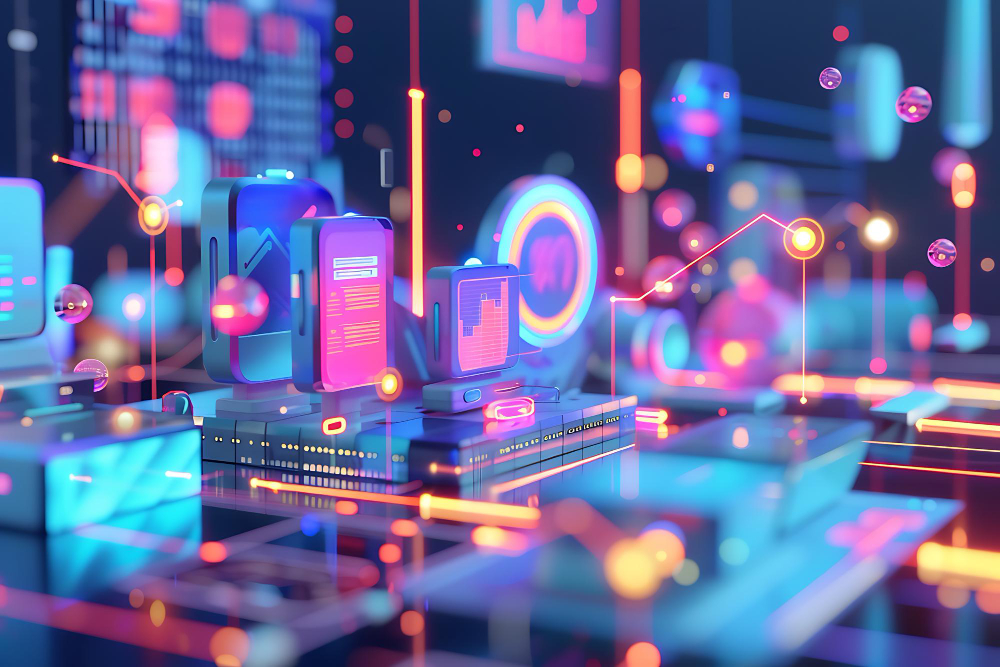
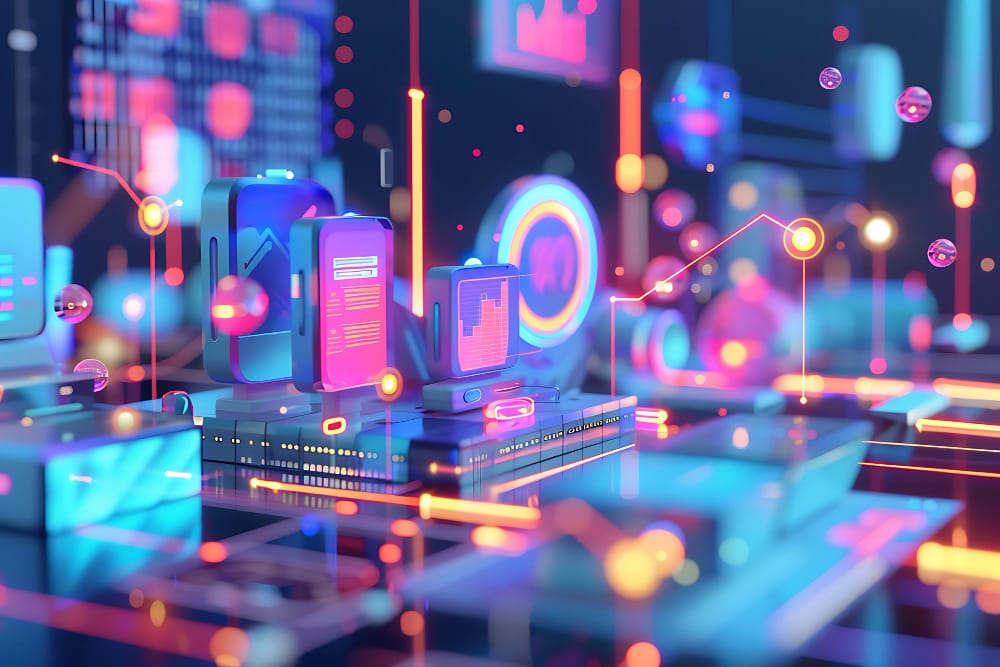
/services: optimise + wire remaining 7 service card images
All seven uploaded images now bound to their matching service entries
and compressed in place with sharp (max 1600 width, mozjpeg quality
80, progressive). Combined source weight 6.8 MB -> 495 KB before
Next.js image delivery pipeline kicks in.

Per-file results:
- ai-ml-services.jpg              1302 KB ->   61 KB (-95%, was 19 MP)
- cloud-modernization-services    3805 KB ->  127 KB (-97%, was 11 MP)
- data-engineering.jpg             443 KB ->   85 KB (-81%)
- digital-transformation.jpg       439 KB ->   84 KB (-81%)
- cyber-security.jpg               348 KB ->   44 KB (-87%)
- martech-cdp.jpg                  277 KB ->   60 KB (-79%)
- QA-testing.jpg                   248 KB ->   34 KB (-86%)

Filename to service-id mapping kept the uploaded names intact:
  ai-ml-services.jpg                -> applied-ai-ml
  cloud-modernization-services.jpg  -> cloud-modernization
  QA-testing.jpg                    -> qa-testing
  data-engineering / martech-cdp / digital-transformation /
  cyber-security / app-development  -> matching ids one-to-one

diff --git a/aci-infotech/src/app/services/page.tsx b/aci-infotech/src/app/services/page.tsx
@@ -39,6 +39,7 @@ const services = [
     capabilities: ['Lakehouse Architecture', 'Real-Time Pipelines', 'Data Quality & Governance', 'Migration & Modernization'],
     technologies: ['Databricks', 'Snowflake', 'dbt', 'Kafka', 'Spark'],
     href: '/services/data-engineering',
+    image: '/images/data-engineering.jpg',
   },
   {
     id: 'applied-ai-ml',
@@ -49,6 +50,7 @@ const services = [
     capabilities: ['MLOps & Model Deployment', 'Predictive Analytics', 'GenAI & LLM Integration', 'AI Governance (ArqAI)'],
     technologies: ['Python', 'MLflow', 'TensorFlow', 'LangChain', 'Azure ML'],
     href: '/services/applied-ai-ml',
+    image: '/images/ai-ml-services.jpg',
   },
   {
     id: 'cloud-modernization',
@@ -59,6 +61,7 @@ const services = [
     capabilities: ['Cloud Migration', 'Kubernetes & Containers', 'Infrastructure as Code', 'Cost Optimization'],
     technologies: ['AWS', 'Azure', 'GCP', 'Terraform', 'Kubernetes'],
     href: '/services/cloud-modernization',
+    image: '/images/cloud-modernization-services.jpg',
   },
   {
     id: 'martech-cdp',
@@ -69,6 +72,7 @@ const services = [
     capabilities: ['Customer Data Platforms', 'Marketing Automation', 'Real-Time Personalization', 'Attribution & Analytics'],
     technologies: ['Salesforce', 'Braze', 'Adobe', 'Segment', 'mParticle'],
     href: '/services/martech-cdp',
+    image: '/images/martech-cdp.jpg',
   },
   {
     id: 'digital-transformation',
@@ -79,6 +83,7 @@ const services = [
     capabilities: ['Process Automation', 'System Integration', 'ERP Modernization', 'Digital Strategy'],
     technologies: ['SAP', 'ServiceNow', 'MuleSoft', 'Power Platform', 'Workato'],
     href: '/services/digital-transformation',
+    image: '/images/digital-transformation.jpg',
   },
   {
     id: 'app-development',
@@ -100,6 +105,7 @@ const services = [
     capabilities: ['Automated Test Frameworks', 'CI/CD Integrated QA', 'AI-Driven Test Coverage', 'Performance & Security Testing'],
     technologies: ['Playwright', 'Cypress', 'Selenium', 'JMeter', 'SonarQube', 'GitHub Actions'],
     href: '/services/qa-testing',
+    image: '/images/QA-testing.jpg',
   },
   {
     id: 'cyber-security',
@@ -110,6 +116,7 @@ const services = [
     capabilities: ['Zero Trust Architecture', 'DevSecOps', 'Compliance & Audit', 'Threat Detection'],
     technologies: ['Splunk', 'CrowdStrike', 'Azure Sentinel', 'Palo Alto', 'Okta'],
     href: '/services/cyber-security',
+    image: '/images/cyber-security.jpg',
   },
 ];
 
